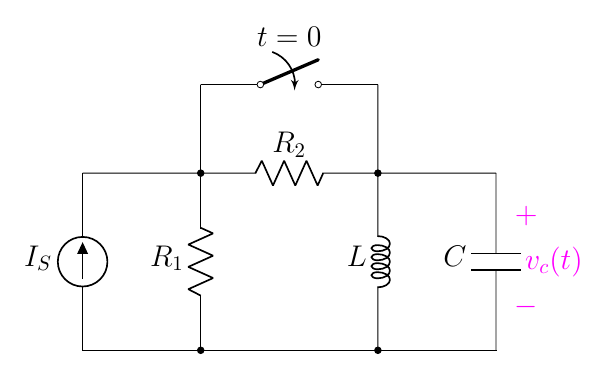
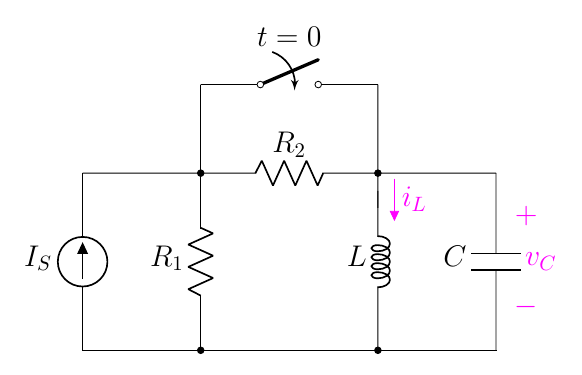
8.47

diff --git a/2.10 Step Response of a Parallel RLC/8.6 Complete Response Parallel/8.47(new).tex b/2.10 Step Response of a Parallel RLC/8.6 Complete Response Parallel/8.47(new).tex
@@ -34,10 +34,10 @@
     \node at (3.5,5.3)[]{$t=0$};
 
     \draw[magenta](7.2,0.5)
-        to[open, v>=$v_c(t)$] ++(0,2);
+        to[open, v>=$v_C$] ++(0,2);
 
-    % \draw[circuitikz/current arrow color=magenta](0.5,5)
-        % to[open,f>^=$\color{magenta}{i_l(t)}$] ++(2.4,0);
+    \draw[circuitikz/current arrow color=magenta](5,2.7)
+        to[open,f>^=$\color{magenta}{i_L}$] ++(0,-1);
 
 \end{circuitikz}
 \end{document}
